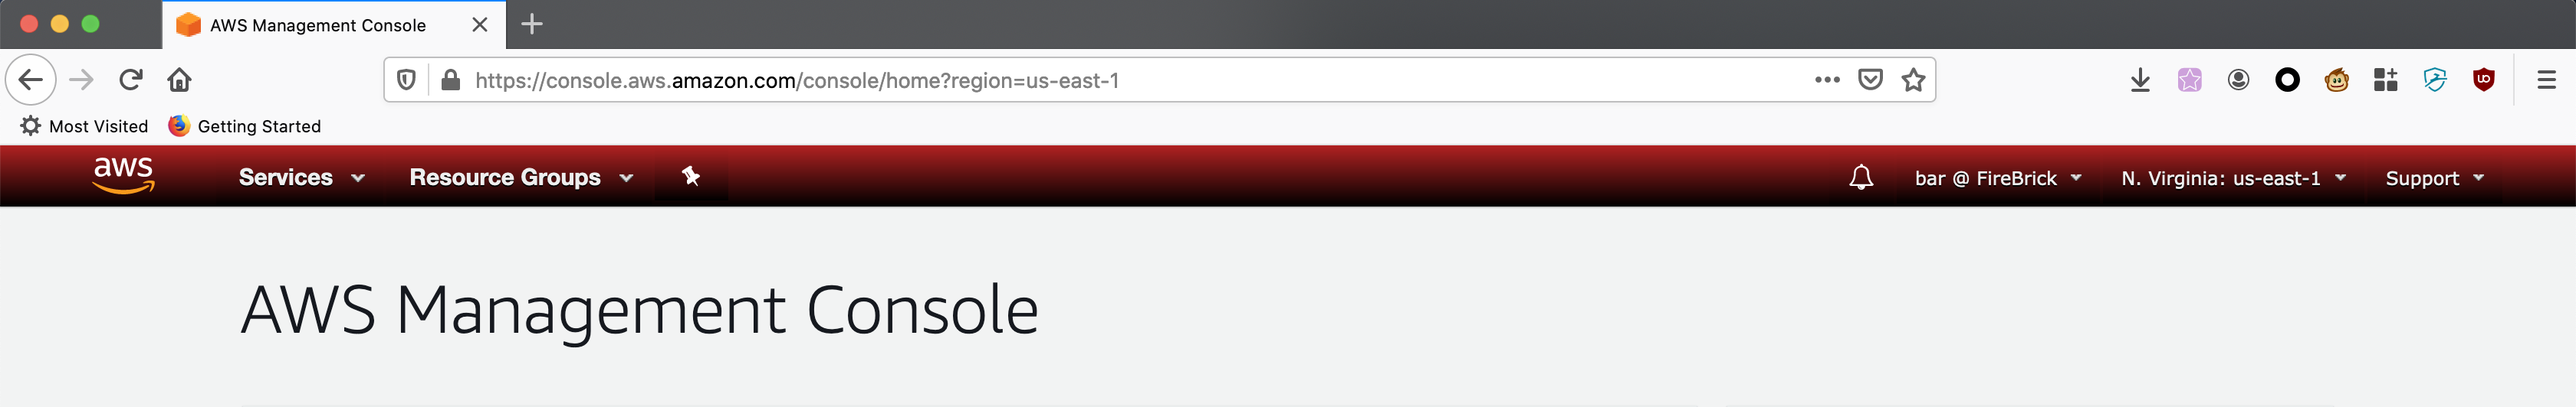
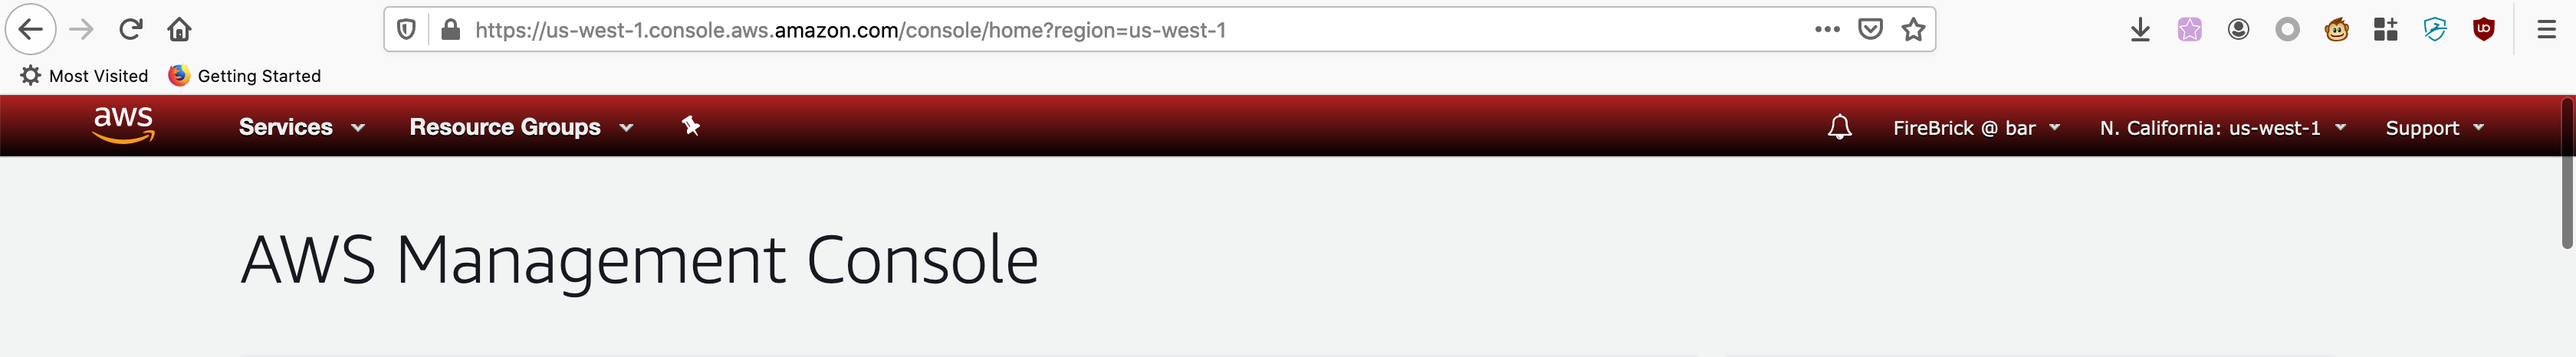
cleanup css and sort regions

diff --git a/pretty-aws-navbar.user.js b/pretty-aws-navbar.user.js
@@ -22,27 +22,27 @@ const accountNavBars = new Map([
 ]);
 
 const regions = new Map([
-  ['Ohio', 'us-east-2'],
-  ['N. Virginia', 'us-east-1'],
-  ['N. California', 'us-west-1'],
-  ['Oregon', 'us-west-2'],
-  ['Hong Kong', 'ap-east-1'],
-  ['Mumbai', 'ap-south-1'],
-  ['Osaka-Local', 'ap-northeast-3'],
-  ['Seoul', 'ap-northeast-2'],
-  ['Singapore', 'ap-southeast-1'],
-  ['Sydney', 'ap-southeast-2'],
-  ['Tokyo', 'ap-northeast-1'],
+  ['Bahrain', 'me-south-1'],
   ['Central', 'ca-central-1'],
   ['Frankfurt', 'eu-central-1'],
+  ['Hong Kong', 'ap-east-1'],
   ['Ireland', 'eu-west-1'],
   ['London', 'eu-west-2'],
+  ['Mumbai', 'ap-south-1'],
+  ['N. California', 'us-west-1'],
+  ['N. Virginia', 'us-east-1'],
+  ['Ohio', 'us-east-2'],
+  ['Oregon', 'us-west-2'],
+  ['Osaka-Local', 'ap-northeast-3'],
   ['Paris', 'eu-west-3'],
+  ['Seoul', 'ap-northeast-2'],
+  ['Singapore', 'ap-southeast-1'],
   ['Stockholm', 'eu-north-1'],
-  ['Bahrain', 'me-south-1'],
+  ['Sydney', 'ap-southeast-2'],
   ['São Paulo', 'sa-east-1'],
-  ['US-Gov-West', 'us-gov-west-1'],
+  ['Tokyo', 'ap-northeast-1'],
   ['US-Gov-East', 'us-gov-east-1'],
+  ['US-Gov-West', 'us-gov-west-1'],
 ]);
 
 function prettify() {
@@ -64,9 +64,16 @@ function prettifyNavBar() {
 }
 
 function buildNavBar(color) {
-  let NavBarClasses = 'body #awsgnav #nav-menubar, body #awsgnav #nav-menubar .nav-menu, #nav-menu-right';
-  let NavBarFormat = `{ background: linear-gradient(to bottom, ${color} 0px, #000 100%)}`;
-  return `${NavBarClasses} ${NavBarFormat}`;
+  let NavBarElements = `
+    body #awsgnav #nav-menubar,
+    body #awsgnav #nav-menubar .nav-menu,
+    #nav-menu-right {
+      background-color: transparent;
+    }`;
+  let NavBarBackground = `#consoleNavHeader {
+    background: linear-gradient(to bottom, ${color} 0px, #000 100%);
+  }`;
+  return `${NavBarBackground} ${NavBarElements}`;
 }
 
 function prettifyRegion() {

diff --git a/README.md b/README.md
@@ -29,7 +29,7 @@ const accountNavBars = new Map([
   ['baz', buildNavBar('OliveDrab')],
 ]);
 ```
-Any html color name or color code is a valid.
+Any html color name or color code is valid.
 
 ## disclaimer
 I am not a javascript developer. In fact, this is the most js I think I have 
